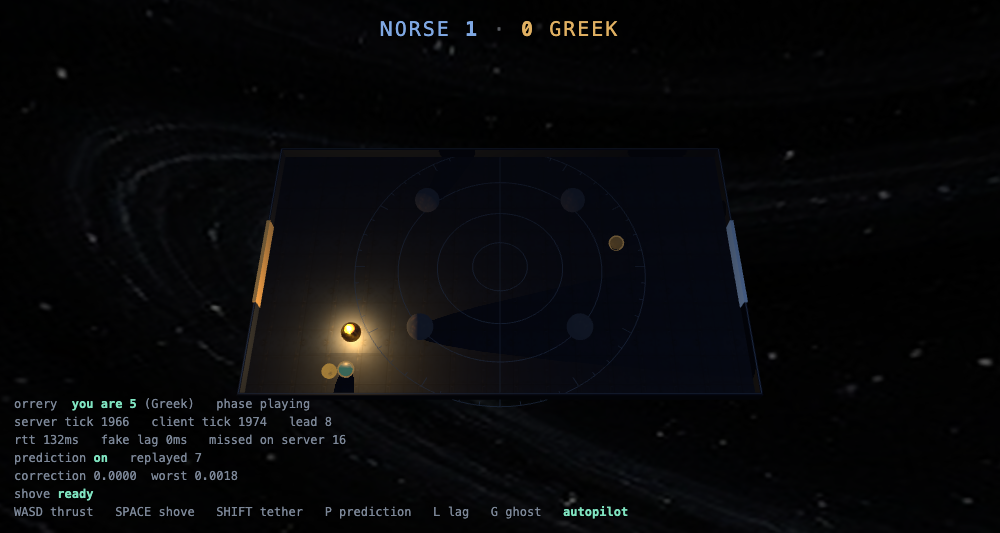
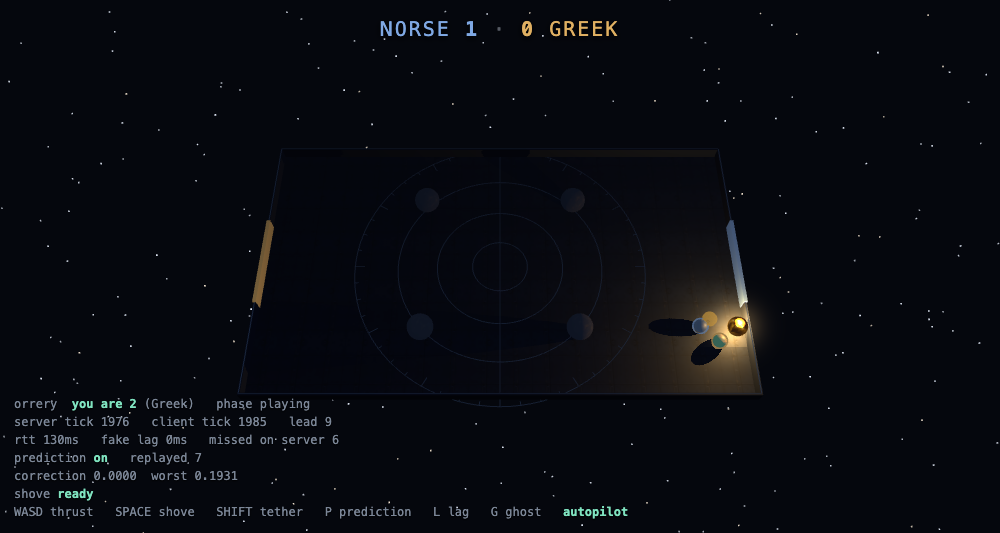
Build the sky instead of painting it
The space backdrop was pixelated and filtering was never going to save it. A
generated plate is a couple of thousand pixels on its longest side; stretched
over an entire sky and viewed through a 40 degree lens, every star was several
soft blocks across. A star is a point of light one pixel wide, which is the one
thing a texture cannot be at any resolution worth shipping.

The sky is geometry now: 2600 points on a sphere, distributed with acos rather
than a uniform angle so the poles do not collect more stars than the equator,
mostly cold white with a few warm, plus three enormous tilted rings of the dead
orrery drawn as lines. Sharp at any zoom, far cheaper than a 4096 texture, and
generated from a fixed seed, because a sky that reshuffles on every refresh
reads as a bug.

The first attempt rendered a starfield that was completely invisible: scene fog
fades everything past 280 units into the background colour and the sky sits at
420, so every star was drawn and then faded to exactly the colour behind it.
The sky materials opt out of fog.

backdrop-equirect.jpg is deleted, 735 KB of it. The generator still knows how to
produce one if a painted sky is ever wanted for something else.

diff --git a/docs/ART-DELIVERY.md b/docs/ART-DELIVERY.md
@@ -186,3 +186,27 @@ which matters in a game about momentum.
 The floor material is brighter and slightly metallic now as well, because the
 panel seams and rivets in that texture were completely invisible at the previous
 exposure, and a texture nobody can see is a texture nobody needed.
+
+
+## The backdrop was thrown away (2026-08-15)
+
+It was pixelated, and no amount of filtering was going to fix it. A generated
+plate is at most a couple of thousand pixels on its longest side; stretched over
+an entire sky and viewed through a 40 degree lens, every star was several soft
+blocks across. A star is a point of light one pixel wide, which is the one thing
+a texture cannot be at any resolution worth shipping.
+
+The sky is now geometry: 2600 points on a sphere of radius 420, evenly
+distributed with `acos` rather than a uniform angle so the poles do not gather
+more than the equator, mostly cold white with a scattering of warm ones, and
+three enormous tilted rings of the derelict orrery drawn as lines. Sharp at any
+zoom, a fraction of the cost, and deterministic from a fixed seed, because a sky
+that reshuffles on every refresh reads as a bug.
+
+`backdrop-equirect.jpg` is deleted. `tools/art/generate.py` still knows how to
+make one if a painted sky is ever wanted for something else.
+
+One trap on the way: the scene fog fades everything past 280 units to the
+background colour, and the sky sits at 420, so the first version rendered the
+whole starfield and then faded every star to exactly the colour behind it. The
+sky materials opt out of fog.
